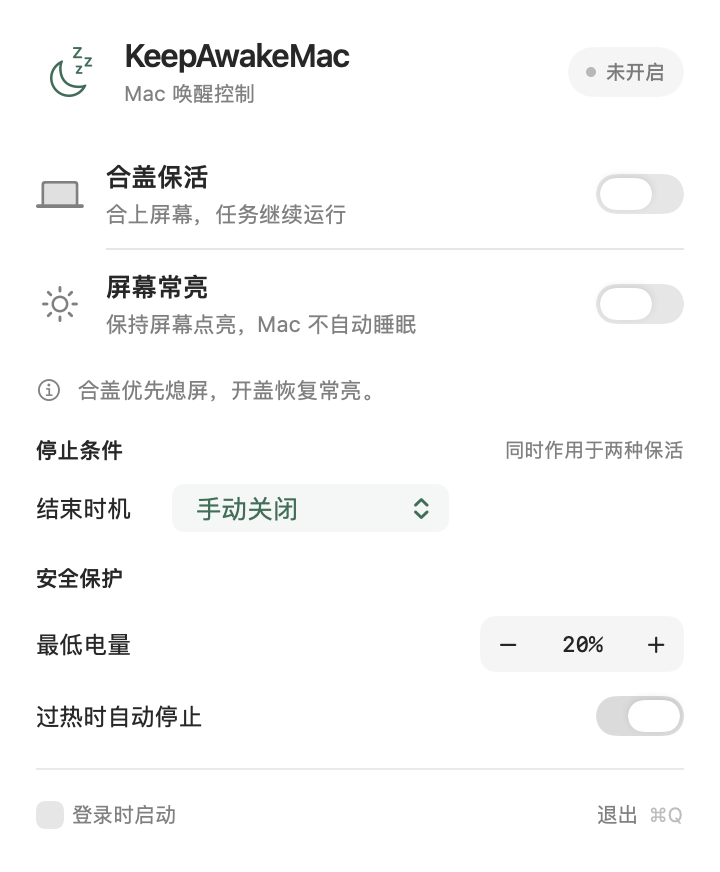
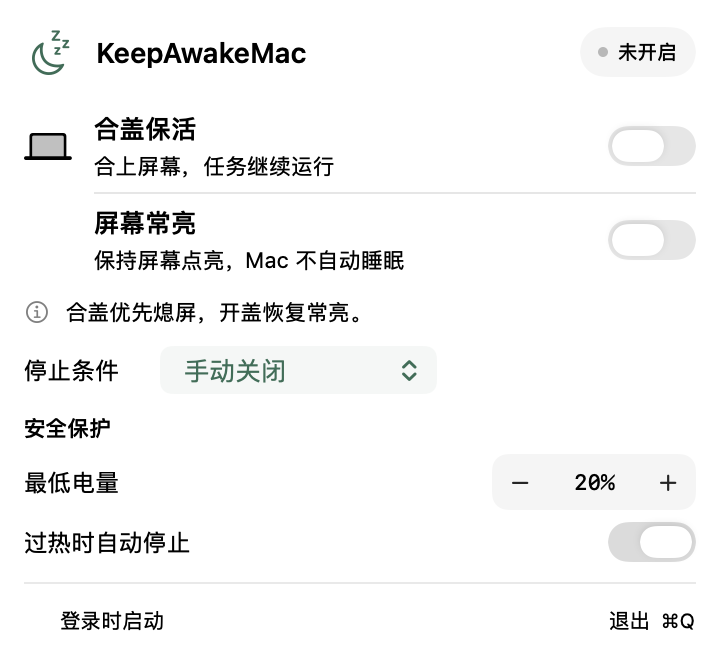
Use native Liquid Glass and size the menu to its contents

diff --git a/App/Views/MenuContentView.swift b/App/Views/MenuContentView.swift
@@ -16,35 +16,57 @@ struct MenuContentView: View {
     private var hairline: Color { Color.primary.opacity(contrast == .increased ? 0.3 : 0.1) }
 
     var body: some View {
+        materialPanel
+            .tint(accent)
+            .accentColor(accent)
+            .font(.system(size: 12))
+            .foregroundStyle(.primary)
+            .animation(reduceMotion ? nil : .spring(response: 0.3, dampingFraction: 1), value: state.anyAwake)
+            .task(id: "\(state.triggerMode.rawValue):\(state.agent.rawValue)") {
+                if state.triggerMode == .agentTask && state.canEditSettings { await state.refreshAgentTasks() }
+            }
+    }
+
+    @ViewBuilder
+    private var materialPanel: some View {
+        if #available(macOS 26.0, *) {
+            Group {
+                if reduceTransparency || contrast == .increased {
+                    panel.background(Color(NSColor.windowBackgroundColor), in: .rect(cornerRadius: 18))
+                } else {
+                    panel.glassEffect(.regular, in: .rect(cornerRadius: 18))
+                }
+            }
+            // Remove the legacy window material behind the single Liquid Glass layer.
+            .containerBackground(.clear, for: .window)
+        } else {
+            panel.background {
+                if reduceTransparency || contrast == .increased {
+                    Color(NSColor.windowBackgroundColor)
+                }
+            }
+        }
+    }
+
+    private var panel: some View {
         ViewThatFits(in: .vertical) {
             content
             ScrollView { content }
                 .frame(height: panelHeight)
         }
         .frame(width: 360)
-        .frame(maxHeight: panelHeight)
-        // MenuBarExtra supplies the native glass. An opaque fill hides its material.
-        .background {
-            if reduceTransparency || contrast == .increased {
-                Color(NSColor.windowBackgroundColor)
-            }
-        }
-        .tint(accent)
-        .accentColor(accent)
-        .font(.system(size: 12))
-        .foregroundStyle(.primary)
-        .animation(reduceMotion ? nil : .spring(response: 0.3, dampingFraction: 1), value: state.anyAwake)
-        .task(id: "\(state.triggerMode.rawValue):\(state.agent.rawValue)") {
-            if state.triggerMode == .agentTask && state.canEditSettings { await state.refreshAgentTasks() }
-        }
+        .frame(maxHeight: panelHeight, alignment: .top)
+        // A menu window proposes its full available height. Keep the content's
+        // intrinsic height instead of centering it in a 720-point empty panel.
+        .fixedSize(horizontal: false, vertical: true)
     }
 
     private var panelHeight: CGFloat { min(720, (NSScreen.main?.visibleFrame.height ?? 900) - 60) }
 
     private var content: some View {
-        VStack(alignment: .leading, spacing: 16) {
+        VStack(alignment: .leading, spacing: 10) {
             header
-            VStack(alignment: .leading, spacing: 9) {
+            VStack(alignment: .leading, spacing: 6) {
                 modeControls
                 Label("合盖优先熄屏，开盖恢复常亮。", systemImage: "info.circle")
                     .font(.system(size: 11))
@@ -62,24 +84,25 @@ struct MenuContentView: View {
             }
             footer
         }
-        .padding(18)
+        .padding(12)
     }
 
     private var header: some View {
         HStack(spacing: 10) {
             Image(systemName: "moon.zzz")
-                .font(.system(size: 23, weight: .light))
+                .font(.system(size: 20, weight: .regular))
                 .foregroundStyle(accent)
-                .frame(width: 34, height: 36)
+                .frame(width: 26, height: 28)
                 .accessibilityHidden(true)
             VStack(alignment: .leading, spacing: 3) {
                 Text("KeepAwakeMac")
-                    .font(.system(size: 16, weight: .semibold))
-                    .tracking(-0.5)
-                Text(headerSubtitle)
-                    .font(.system(size: 10.5))
-                    .foregroundStyle(secondary)
-                    .monospacedDigit()
+                    .font(.system(size: 14, weight: .semibold))
+                if state.anyAwake {
+                    Text("电量 \(state.batteryPercent)% · \(thermalText)")
+                        .font(.system(size: 10.5))
+                        .foregroundStyle(secondary)
+                        .monospacedDigit()
+                }
             }
             Spacer(minLength: 4)
             HStack(spacing: 5) {
@@ -93,11 +116,6 @@ struct MenuContentView: View {
             .background(state.anyAwake ? accent.opacity(0.10) : Color.primary.opacity(0.045), in: Capsule())
             .accessibilityElement(children: .combine)
         }
-    }
-
-    private var headerSubtitle: String {
-        if state.anyAwake { return "电量 \(state.batteryPercent)% · \(thermalText)" }
-        return "Mac 唤醒控制"
     }
 
     private var statusTitle: String {
@@ -150,7 +168,7 @@ struct MenuContentView: View {
                 .disabled(state.isBusy)
                 .help(title == "合盖保活" ? "合盖后继续运行任务，同时关闭显示器" : "防止闲置熄屏与系统睡眠；合盖时让位于熄屏")
         }
-        .padding(.vertical, 10)
+        .padding(.vertical, 6)
     }
 
     private var lidSubtitle: String {
@@ -206,15 +224,16 @@ struct MenuContentView: View {
     }
 
     private var stopConditions: some View {
-        VStack(alignment: .leading, spacing: 10) {
-            sectionHeading("停止条件", trailing: "同时作用于两种保活")
+        VStack(alignment: .leading, spacing: 6) {
             Picker(selection: $state.triggerMode) {
                 ForEach(AppState.TriggerMode.allCases) { Text(modeTitle($0)).tag($0) }
-            } label: { Text("结束时机").frame(width: 60, alignment: .leading) }
+            } label: { Text("停止条件").frame(width: 60, alignment: .leading) }
                 .pickerStyle(.menu).controlSize(.regular)
                 .frame(maxWidth: .infinity, alignment: .leading)
                 .disabled(!state.canEditSettings)
                 .accessibilityLabel("停止条件")
+                .accessibilityHint("同时作用于两种保活")
+                .help("所选停止条件同时关闭合盖保活和屏幕常亮。")
             if state.triggerMode == .timer {
                 HStack {
                     Text("持续时间").foregroundStyle(secondary)
@@ -305,7 +324,7 @@ struct MenuContentView: View {
     }
 
     private var safeguards: some View {
-        VStack(alignment: .leading, spacing: 12) {
+        VStack(alignment: .leading, spacing: 6) {
             sectionHeading("安全保护")
             HStack {
                 Label("最低电量", systemImage: "battery.25percent")
@@ -326,7 +345,7 @@ struct MenuContentView: View {
     }
 
     private var footer: some View {
-        VStack(spacing: 12) {
+        VStack(spacing: 8) {
             Rectangle().fill(hairline).frame(height: 1)
             HStack {
                 Toggle("登录时启动", isOn: $state.launchAtLogin)

diff --git a/Tests/MenuPreview.swift b/Tests/MenuPreview.swift
@@ -52,10 +52,8 @@ struct MenuPreview {
                 state.status = .active
             case "overflow":
                 state.triggerMode = .agentTask
-                state.status = .failed(HelperService.ApprovalRequired().localizedDescription)
-                state.needsHelperApproval = true
                 state.screenError = "Test display error"
-                state.stopMessage = String(repeating: "Task status unavailable. ", count: 24)
+                state.stopMessage = String(repeating: "Task status unavailable. ", count: 60)
             default: break
             }
             let view = MenuContentView().environmentObject(state)
@@ -80,6 +78,16 @@ struct MenuPreview {
             if name == "agent-empty" { precondition(state.agentTasks.isEmpty) }
             if name == "agent-ready" { precondition(state.agentTasks.count == 1) }
             let size = host.fittingSize
+            let proposedSize = NSHostingController(rootView: view).sizeThatFits(in: NSSize(width: 360, height: 720))
+            // Reproduce the real menu window's tall proposal. A flexible maxHeight
+            // used to expand every state to 720 points with large empty margins.
+            precondition(proposedSize.height <= size.height + 8,
+                         "Menu stretched beyond its content: \(name) \(proposedSize)")
+            if name == "idle" { precondition(size.height <= 350, "Default menu is no longer compact") }
+            if name == "overflow" {
+                precondition(size.height == min(720, (NSScreen.main?.visibleFrame.height ?? 900) - 60),
+                             "Long content must use the bounded scrolling layout")
+            }
             precondition(size.width == 360 && size.height > 300 && size.height <= 720,
                          "Unexpected menu dimensions: \(name) \(size)")
             window.setContentSize(size)
@@ -87,15 +95,8 @@ struct MenuPreview {
             host.layoutSubtreeIfNeeded()
             guard let bitmap = host.bitmapImageRepForCachingDisplay(in: host.bounds) else { fatalError("No bitmap") }
             host.cacheDisplay(in: host.bounds, to: bitmap)
-            // The content must leave the system's glass visible, except when
-            // accessibility settings explicitly request an opaque surface.
-            let alpha = bitmap.colorAt(x: 4, y: 4)!.alphaComponent
-            let opaque = NSWorkspace.shared.accessibilityDisplayShouldReduceTransparency ||
-                         NSWorkspace.shared.accessibilityDisplayShouldIncreaseContrast
-            precondition(opaque ? alpha > 0.99 : alpha < 0.01,
-                         "Unexpected menu background opacity: \(name) \(alpha)")
             // PNGs cannot capture the system's behind-window material. Render a
-            // neutral backdrop only for readable layout previews, after testing alpha.
+            // neutral backdrop only for readable layout previews.
             host.rootView = view.background(Color(NSColor.windowBackgroundColor))
             host.layoutSubtreeIfNeeded()
             host.cacheDisplay(in: host.bounds, to: bitmap)

diff --git a/docs/DEVELOPMENT.md b/docs/DEVELOPMENT.md
@@ -29,7 +29,9 @@ App 每 5 秒发出心跳，helper 的会话租期为 20 秒，同时监视 App 
 
 ## 检查
 
-先按 README 构建 Debug 版本。`scripts/check-helper.sh` 使用匿名 XPC、模拟电源命令、固定电池快照和临时 Agent 记录，不需要后台授权，也不改变真实睡眠设置。`scripts/check-menu.sh` 渲染 10 种状态，并检查内容背景是否按当前辅助功能设置保留透明度；不捕获桌面、不执行真实电源操作。导出的布局 PNG 使用中性底色便于阅读，不能代替系统毛玻璃透色的实机验收。
+先按 README 构建 Debug 版本。`scripts/check-helper.sh` 使用匿名 XPC、模拟电源命令、固定电池快照和临时 Agent 记录，不需要后台授权，也不改变真实睡眠设置。`scripts/check-menu.sh` 渲染 10 种状态，模拟菜单窗口给出 720 点高度的布局提议，确认内容不会被拉高、默认状态高度不超过 350 点；不捕获桌面、不执行真实电源操作。导出的布局 PNG 使用中性底色便于阅读，不能代替 Liquid Glass 透色的实机验收。
+
+macOS 26+ 使用 `glassEffect(.regular)`，并通过 `containerBackground(.clear, for: .window)` 清除窗口原有背景，避免材质叠加。较早系统保留标准菜单材质；需要 Xcode 26+ 编译，CI 使用 Xcode 26.3。
 
 以下 Debug 诊断无需批准 root helper：
 
